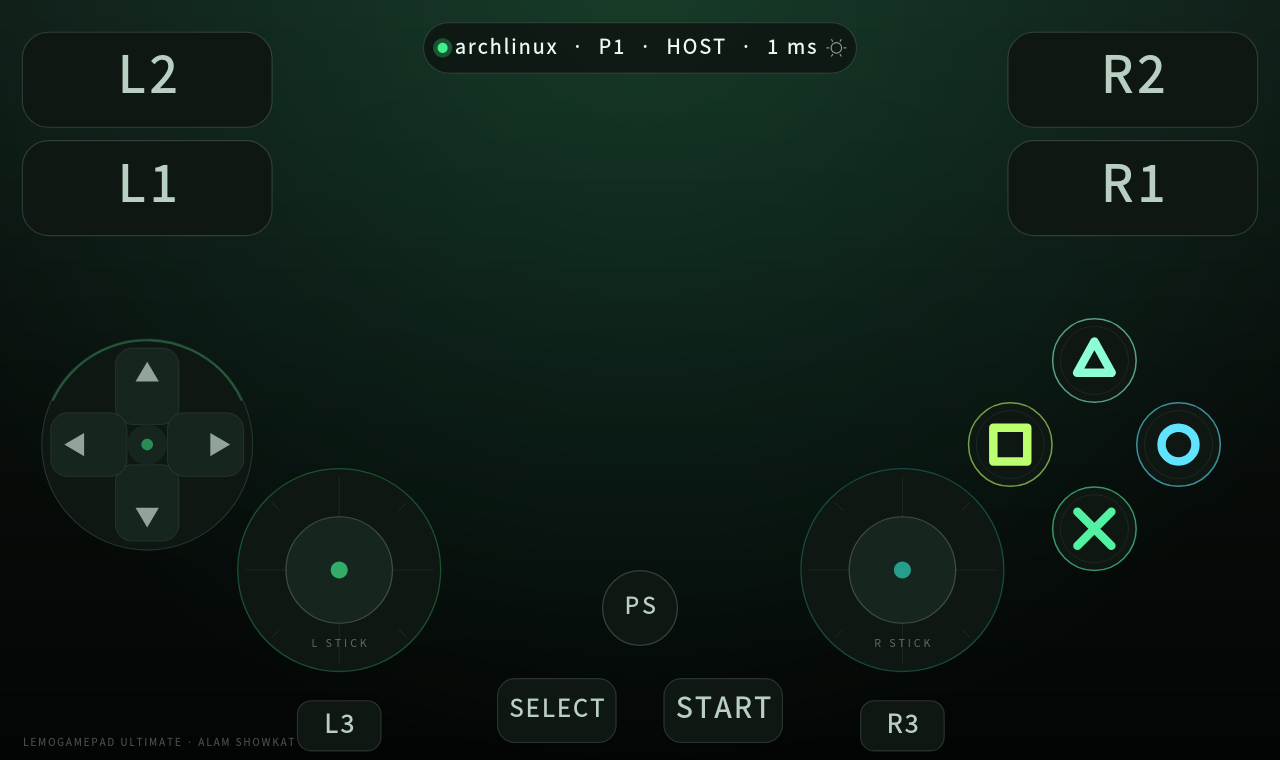
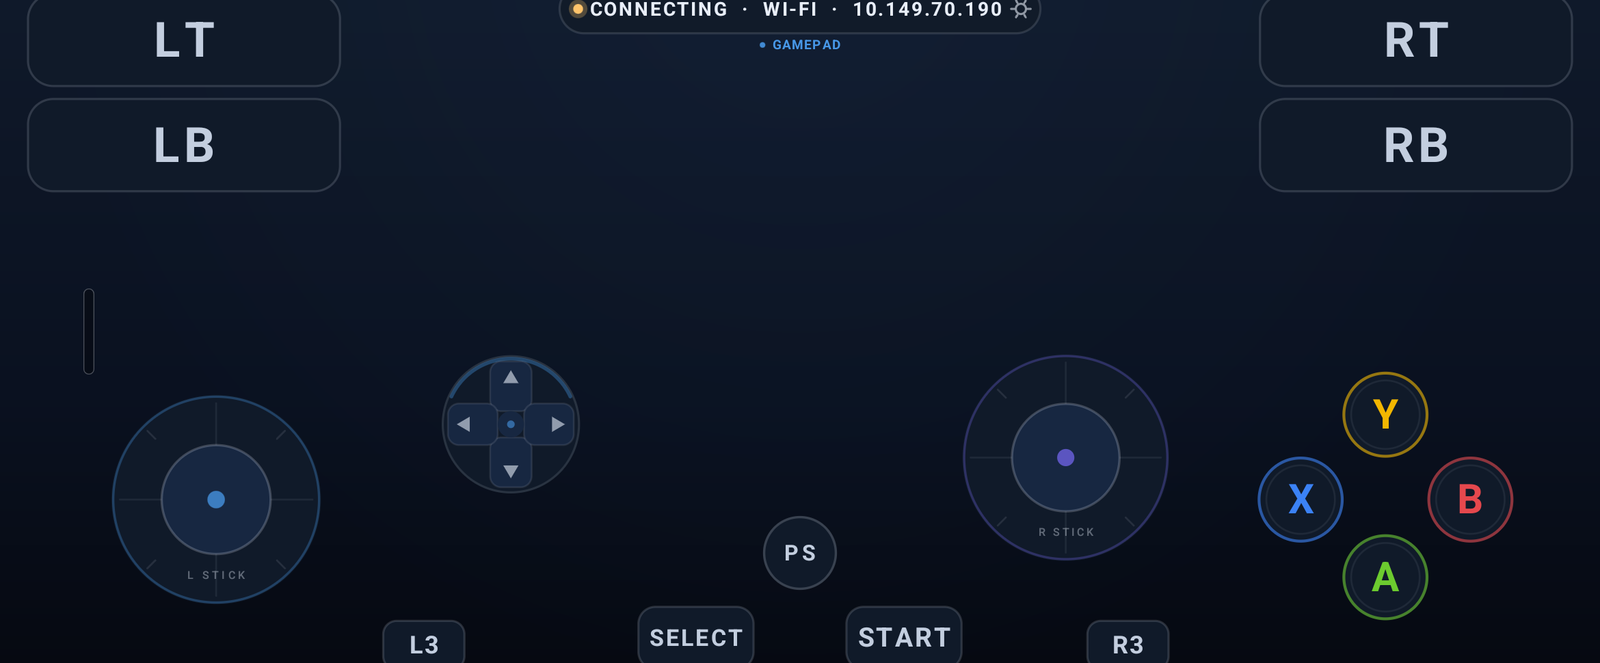
docs: use real Android app screenshot in hero

diff --git a/docs/index.html b/docs/index.html
@@ -20,14 +20,14 @@
   <meta property="og:title" content="lemoGamePad ultimate — Turn an Android phone into a PC gamepad">
   <meta property="og:description" content="Free, open-source Android gamepad for Windows and Linux PCs. Eight players, Wi-Fi, USB or Bluetooth, browser pad, no account or cloud.">
   <meta property="og:image" content="https://alamshowkatdar.github.io/lemoGamePad-ultimate/assets/app-pad.png">
-  <meta property="og:image:width" content="1280">
-  <meta property="og:image:height" content="760">
-  <meta property="og:image:alt" content="The real lemoGamePad pad with sticks, D-pad and face buttons">
+  <meta property="og:image:width" content="1600">
+  <meta property="og:image:height" content="663">
+  <meta property="og:image:alt" content="The real lemoGamePad Android app with analog sticks, D-pad and face buttons">
   <meta name="twitter:card" content="summary_large_image">
   <meta name="twitter:title" content="lemoGamePad ultimate — Turn an Android phone into a PC gamepad">
   <meta name="twitter:description" content="Free, open-source Android gamepad for Windows and Linux PCs. Eight players, Wi-Fi, USB or Bluetooth, browser pad, no account or cloud.">
   <meta name="twitter:image" content="https://alamshowkatdar.github.io/lemoGamePad-ultimate/assets/app-pad.png">
-  <meta name="twitter:image:alt" content="The real lemoGamePad pad with sticks, D-pad and face buttons">
+  <meta name="twitter:image:alt" content="The real lemoGamePad Android app with analog sticks, D-pad and face buttons">
 
   <script type="application/ld+json">
   {
@@ -161,8 +161,8 @@
       </div>
       <div class="hero-device">
         <div class="phone-shot">
-          <img src="assets/app-pad.png" alt="The real lemoGamePad pad in landscape, with analog sticks, D-pad, face buttons and a live connection status" width="1280" height="760" fetchpriority="high">
-          <span class="shot-badge">LIVE PAD · v2.1.5</span>
+          <img src="assets/app-pad.png" alt="The real lemoGamePad Android app in landscape, with analog sticks, D-pad, face buttons and a live connection status" width="1600" height="663" fetchpriority="high">
+          <span class="shot-badge">ANDROID PAD · v2.1.5</span>
         </div>
         <div class="signal" aria-hidden="true"><span></span><span></span><span></span><b>PC</b></div>
       </div>

diff --git a/docs/assets/site.css b/docs/assets/site.css
@@ -264,7 +264,6 @@ h3 { font-size: 20px; }
   width: 100%;
   height: auto;
   border-radius: 20px;
-  filter: brightness(1.12) saturate(1.08);
 }
 
 .shot-badge {

diff --git a/docs/SEO.md b/docs/SEO.md
@@ -18,7 +18,7 @@ The public site is <https://alamshowkatdar.github.io/lemoGamePad-ultimate/> (Git
 - A Jekyll layout (`_layouts/default.html`) gives every published guide its own keyword-focused title, description, canonical URL, Open Graph tags, navigation and `TechArticle` structured data. `_config.yml` supplies page metadata without adding front matter to the Markdown files.
 - The homepage links to the on-site guides instead of GitHub blob pages, plus a documentation hub section with keyword-rich anchor text.
 - Internal-only pages (review notes, release checklist, SEO notes) are `noindex`.
-- The hero now uses a real screenshot of the browser pad (`assets/app-pad.png`, captured from the running app at v2.1.5) instead of a CSS mock-up, with descriptive alt text, a preload hint, and the same image as the social preview.
+- The hero now uses a real screenshot of the Android app (`assets/app-pad.png`, captured in landscape from the connected phone at v2.1.5) instead of a CSS mock-up, with descriptive alt text, a preload hint, and the same image as the social preview.
 - GitHub repository homepage points to the website, and relevant topics were added.
 
 ## Required off-site steps (cannot be done in code)
